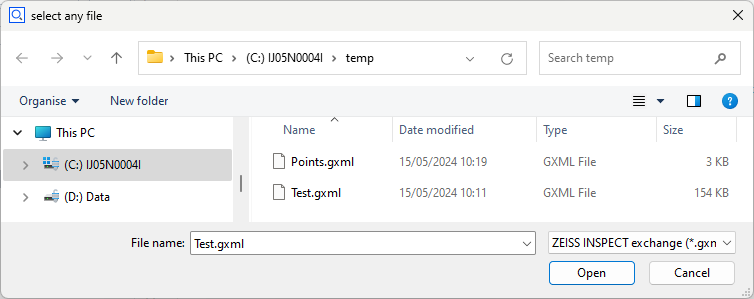
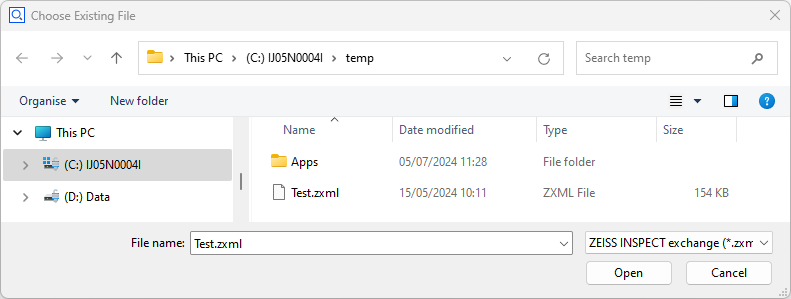
Updated

diff --git a/doc/howtos/python_api_introduction/file_selection_dialog.md b/doc/howtos/python_api_introduction/file_selection_dialog.md
@@ -6,19 +6,20 @@
 
 ## Interactive configuration of `choose_file()`
 
-You insert the command `choose_file()` into your script by using RMB ► Insert ► Choose File... in the script editor. A configuration dialog is shown:
+You insert the command `choose_file()` into your script by using RMB ► Insert ► File... in the script editor. A configuration dialog is shown:
 
-![Choose file configuration](assets/choose_file_configuration.png)
+![Configure File Selection](assets/configure_file_selection.png)
 
 Selection type
 : Allows to customize the selection. The following options are available:
-  * Select any file
-  * Create new file
-  * Load existing file
+  * Any file
+  * New file
+  * Existing file
+  * Multiple existing files
   * Load multiple files
-  * Select directory
+  * Existing folder
 
-Base folder (optional)
+Default folder (optional)
 : The folder shown when the file selection is opened
  
 Default file (optional)
@@ -59,7 +60,7 @@ If the dialog is cancelled, a `RequestError` exception is thrown.
 file=gom.script.sys.choose_file_draft (
 	file_types=[['*.zxml', 'ZEISS INSPECT exchange'], ['*.gxml', 'ZEISS INSPECT exchange']], 
 	file_types_default='*.zxml', 
-	file='C:/temp/Test.gxml', 
+	file='C:/temp/Test.zxml', 
 	folder='C:/temp/', 
 	selection_type='load file')
 
